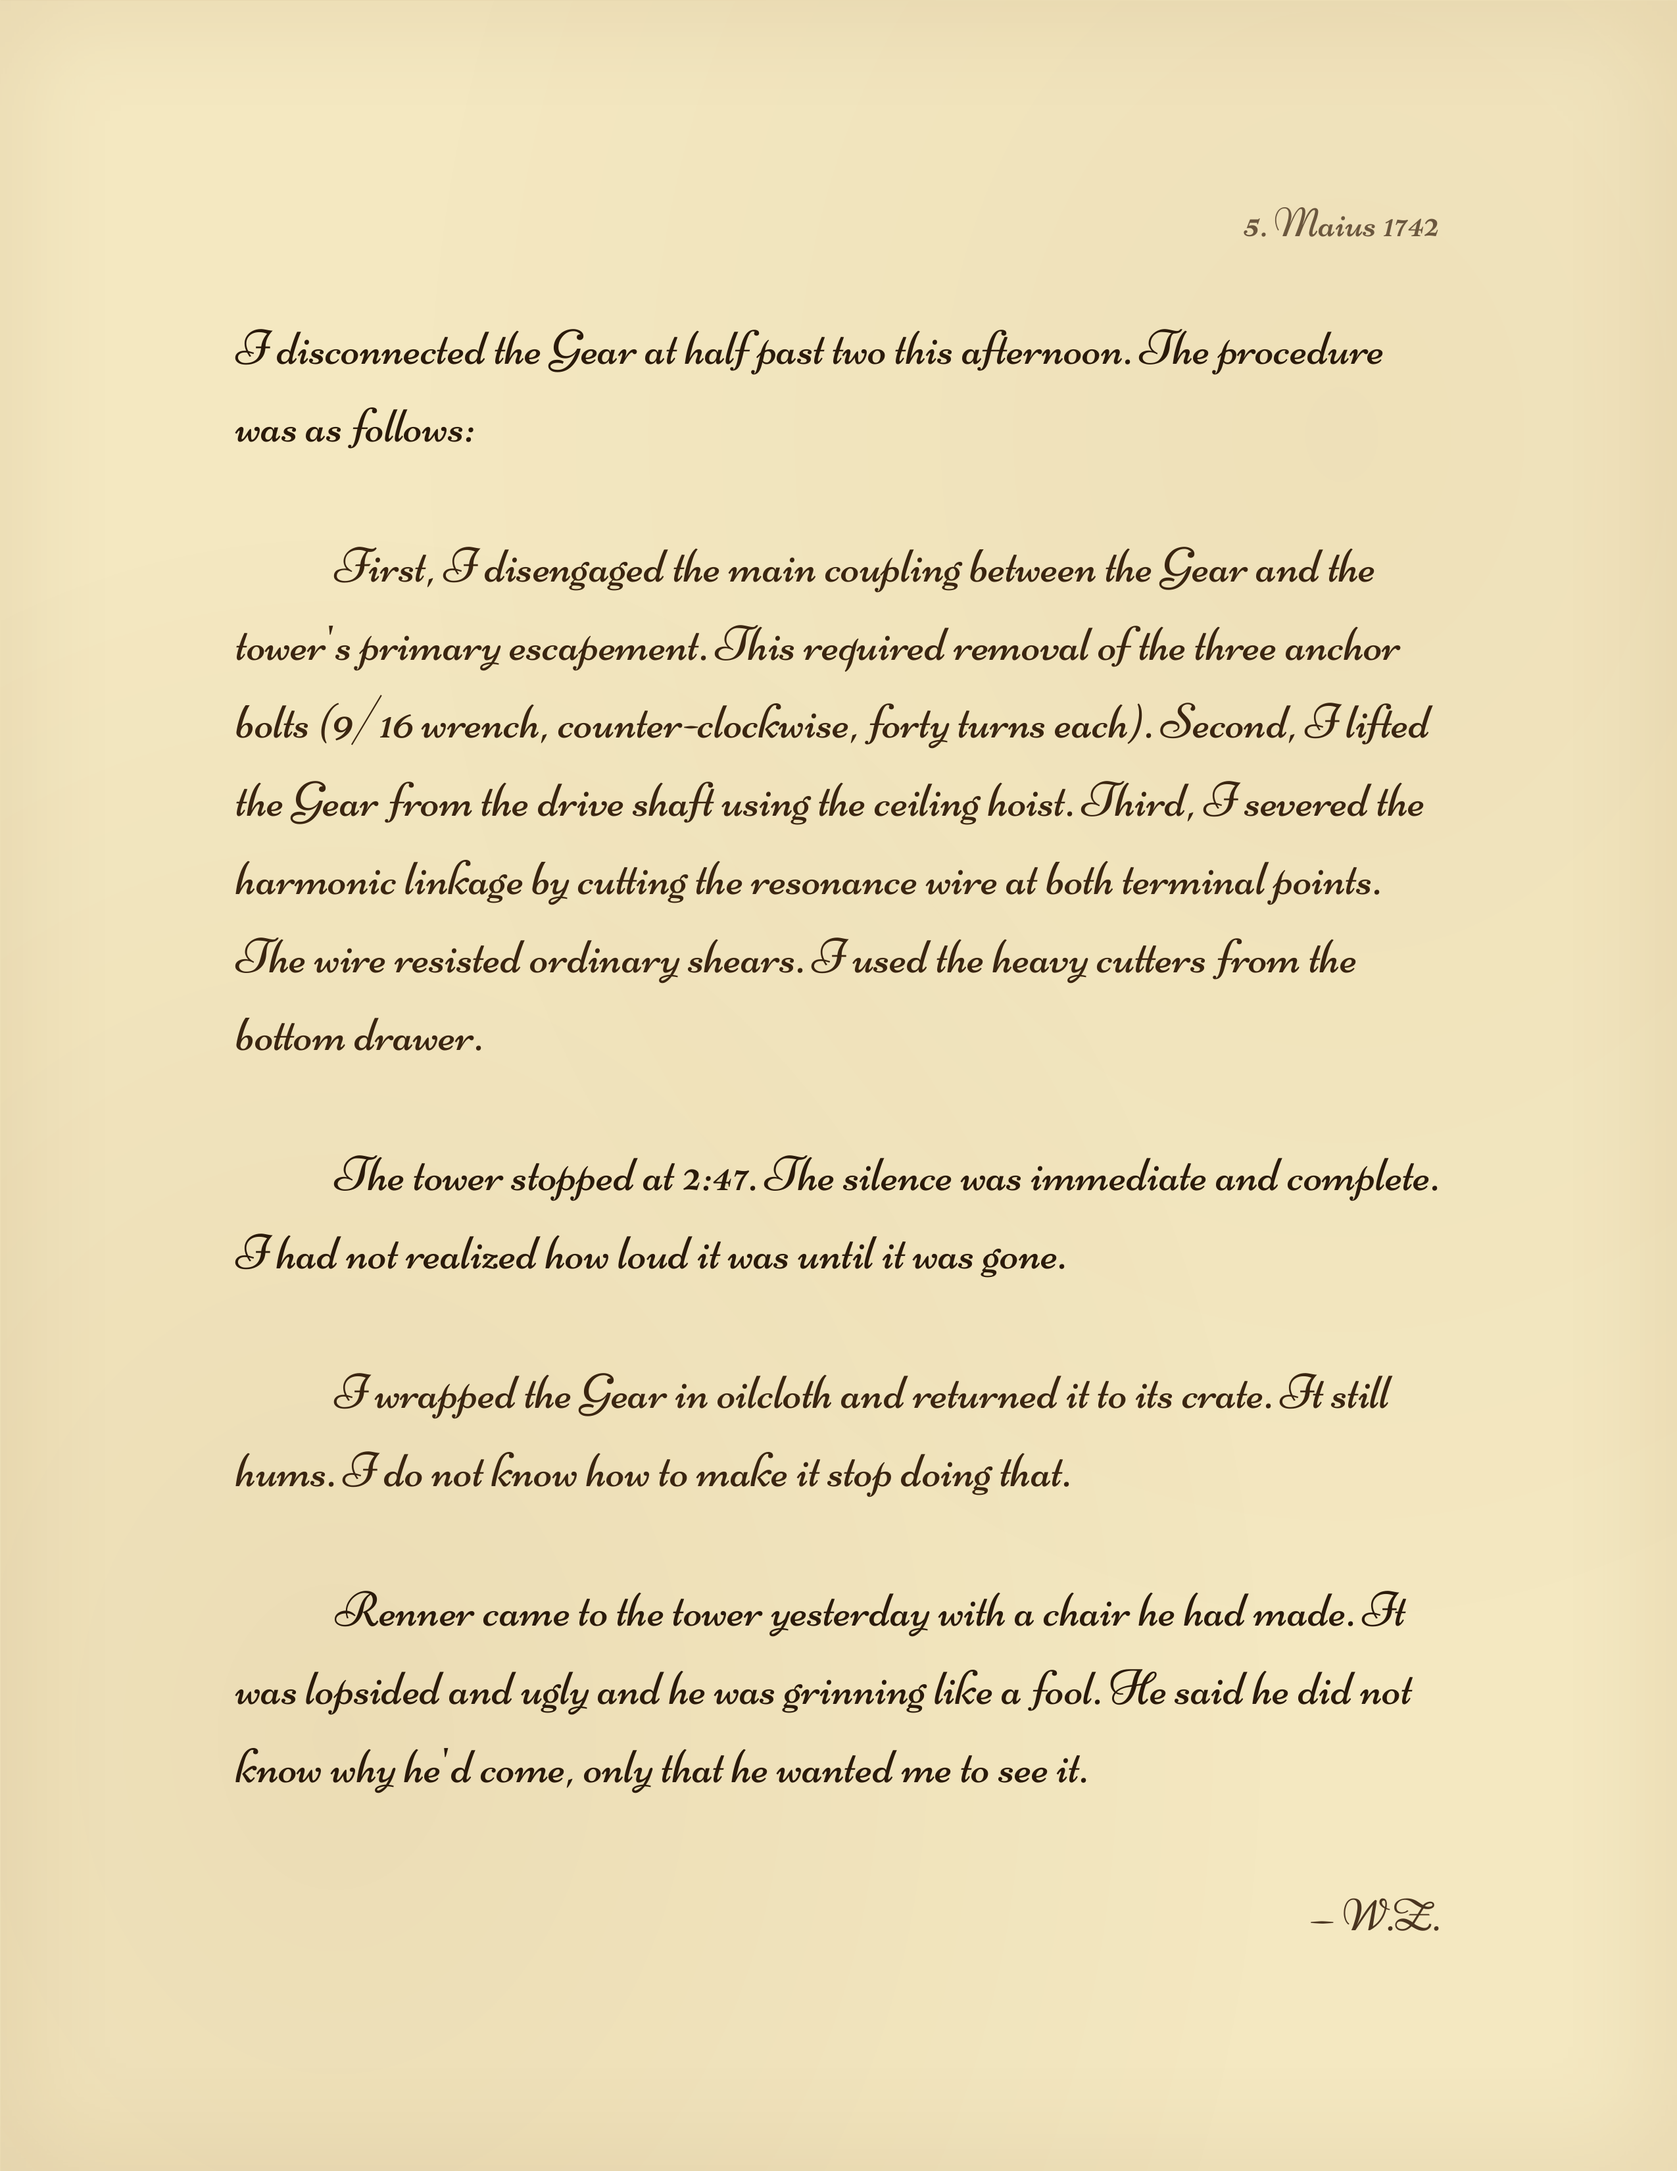
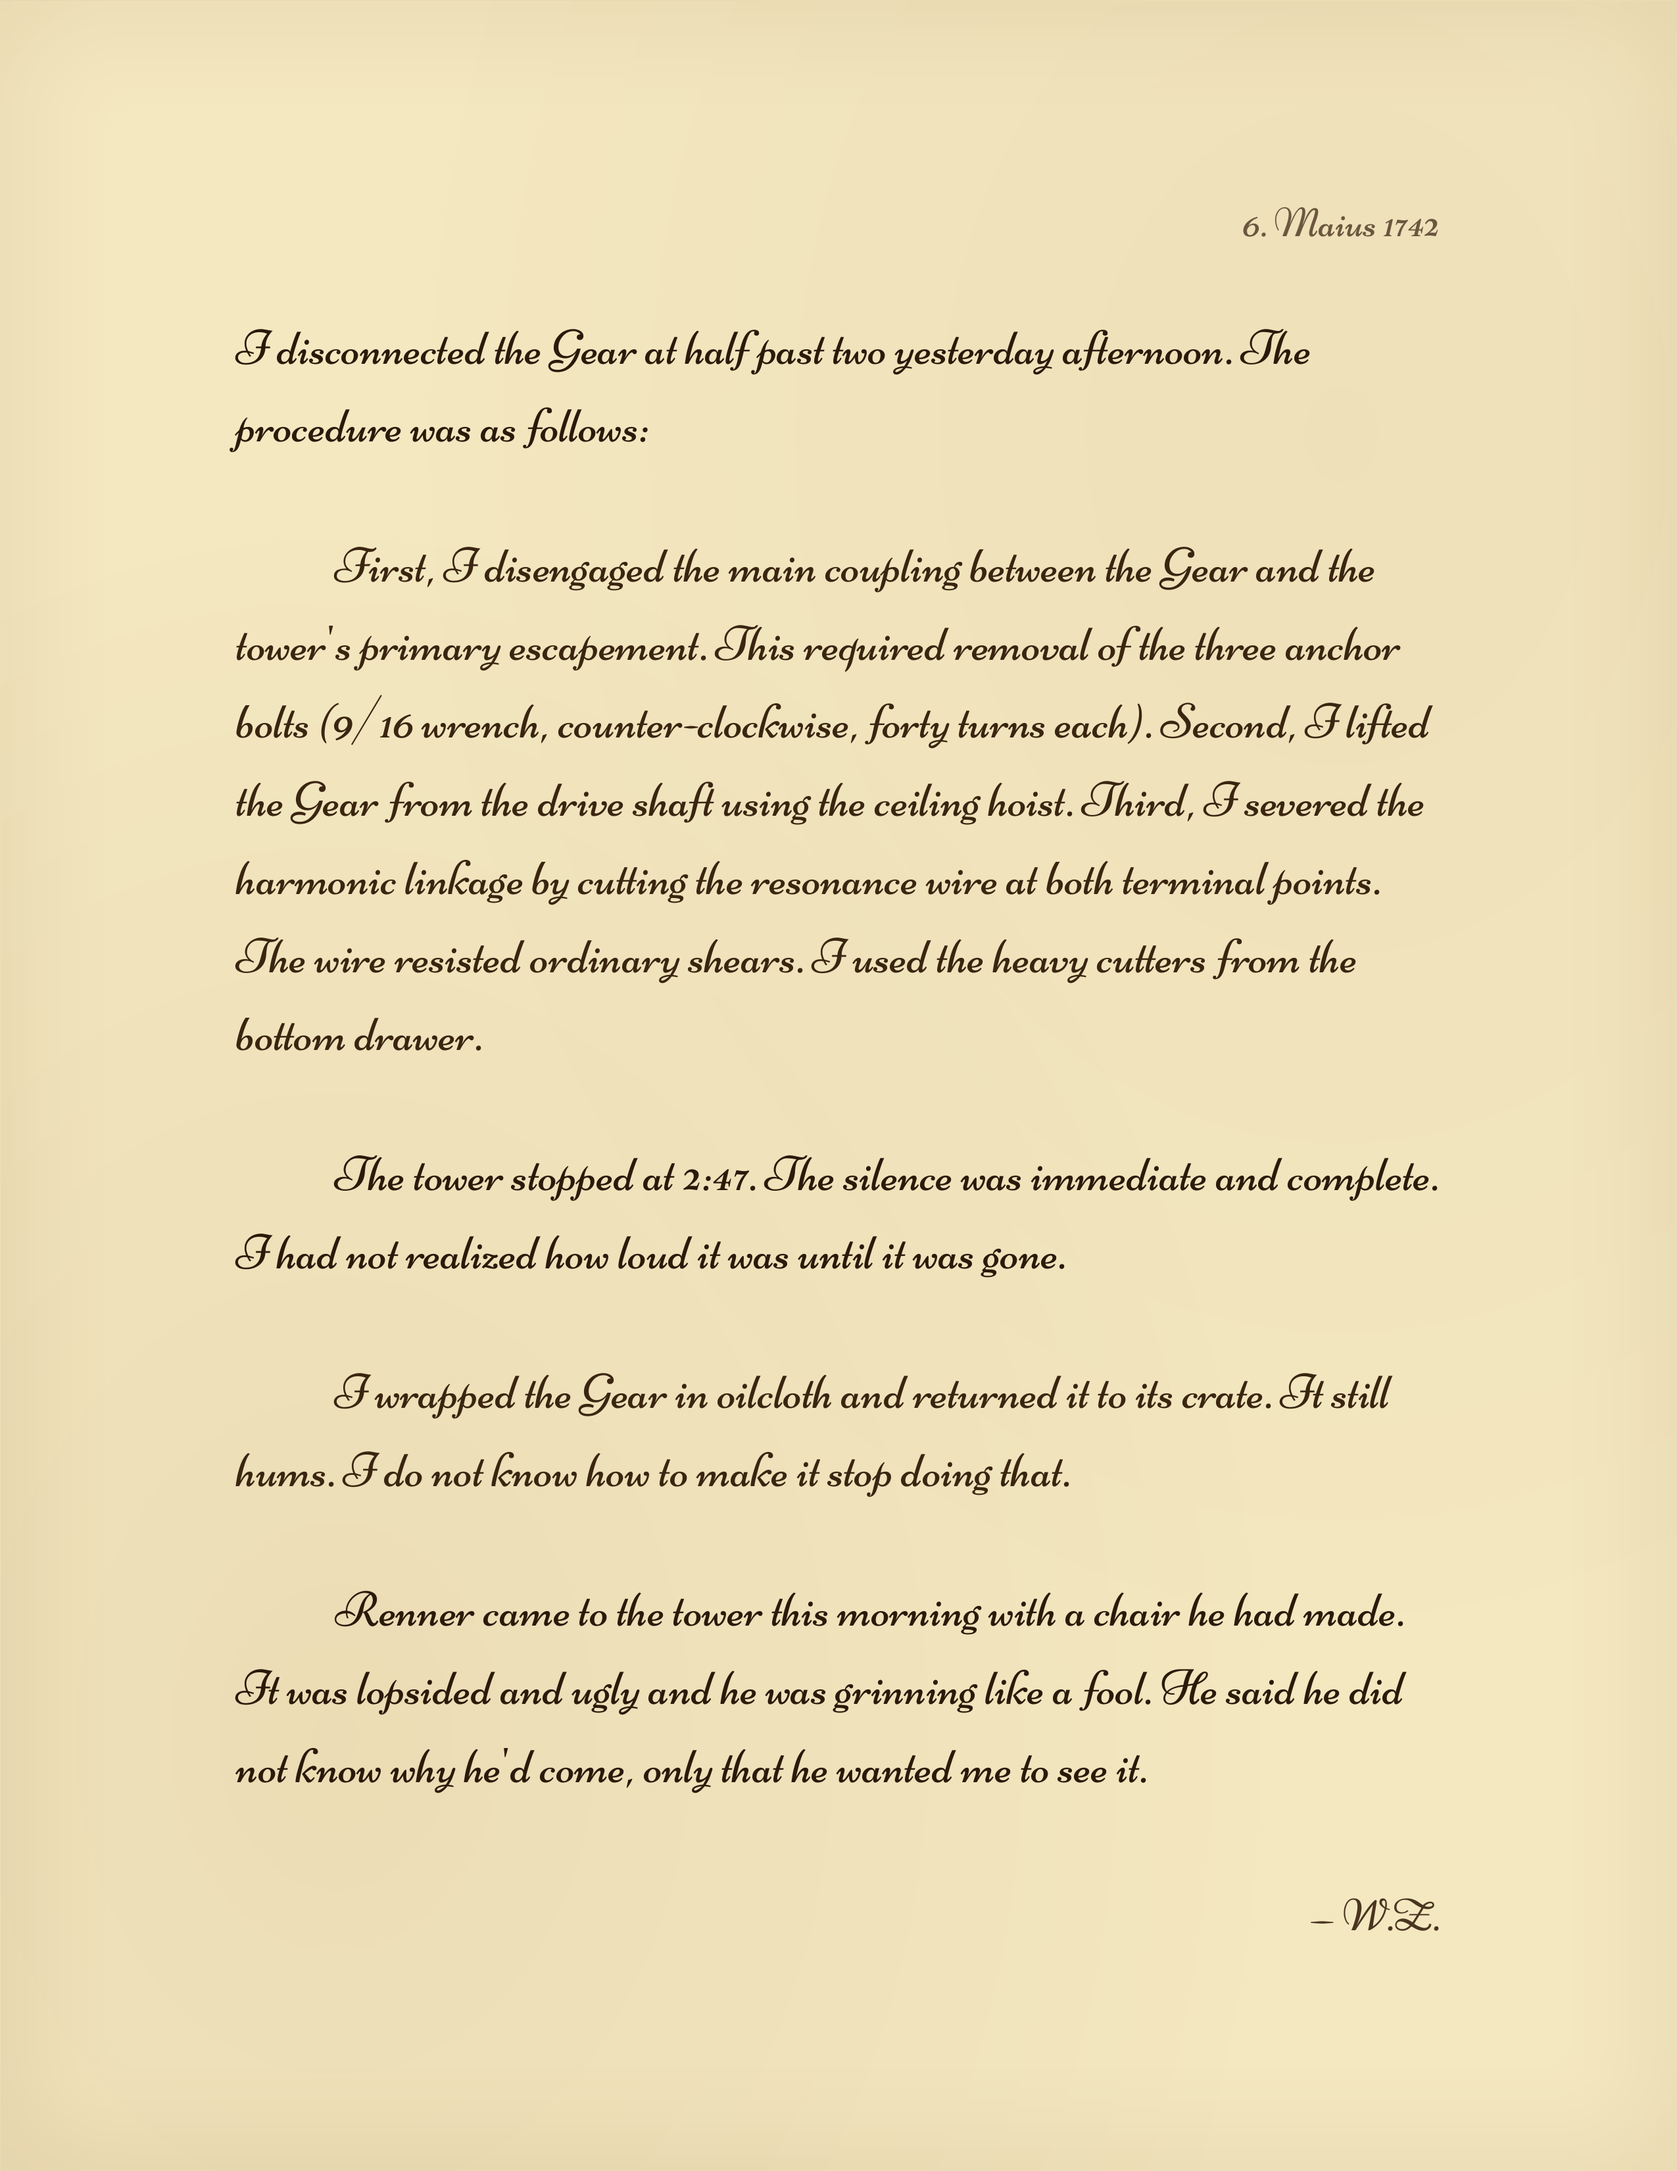
Journal written the day after: Renner's lopsided chair follows the disconnection
Entry re-dated 6. Maius; disconnection 'yesterday afternoon' (the 5th);
Renner visits 'this morning' -- his recovery now postdates the Gear's removal.

diff --git a/props/documents/journal-disconnection.html b/props/documents/journal-disconnection.html
@@ -44,9 +44,9 @@
 <body>
 
 <div class="page">
-  <div class="date">5. Maius 1742</div>
+  <div class="date">6. Maius 1742</div>
   <div class="body">
-    <p>I disconnected the Gear at half past two this afternoon. The procedure was as follows:</p>
+    <p>I disconnected the Gear at half past two yesterday afternoon. The procedure was as follows:</p>
 
     <p>First, I disengaged the main coupling between the Gear and the tower's primary escapement. This required removal of the three anchor bolts (9/16 wrench, counter-clockwise, forty turns each). Second, I lifted the Gear from the drive shaft using the ceiling hoist. Third, I severed the harmonic linkage by cutting the resonance wire at both terminal points. The wire resisted ordinary shears. I used the heavy cutters from the bottom drawer.</p>
 
@@ -54,7 +54,7 @@
 
     <p>I wrapped the Gear in oilcloth and returned it to its crate. It still hums. I do not know how to make it stop doing that.</p>
 
-    <p>Renner came to the tower yesterday with a chair he had made. It was lopsided and ugly and he was grinning like a fool. He said he did not know why he'd come, only that he wanted me to see it.</p>
+    <p>Renner came to the tower this morning with a chair he had made. It was lopsided and ugly and he was grinning like a fool. He said he did not know why he'd come, only that he wanted me to see it.</p>
   </div>
   <div class="signature">&mdash; W.Z.</div>
 </div>

diff --git a/adventure-summary.md b/adventure-summary.md
@@ -12,7 +12,7 @@
 
 - The Kuckucksuhrturm, a clocktower in the Tiefenwald near the town of Freudenfeld, has mysteriously started ticking again
 - The Uhrmacher (clockmaker) is long since dead
-- **Timeline (canon):** Wilhelm's era is 1742 — the Gear arrives, the town improves (Kohler's letter, 14. Martius), the wrongness shows (journal, 19. Aprilis), and he disconnects the Gear (journal, 5. Maius, at half past two in the afternoon — half an hour before his own activation would have struck) all within that year. **Present day is 1804** — the tower has stood dead for some sixty years. Fits Heinrich: he saw the Tickwichtel as a boy of seven and is an old man of 69 now
+- **Timeline (canon):** Wilhelm's era is 1742 — the Gear arrives, the town improves (Kohler's letter, 14. Martius), the wrongness shows (journal, 19. Aprilis), and he disconnects the Gear (journal entry of 6. Maius: disconnected on the 5th at half past two in the afternoon — half an hour before his own activation would have struck) all within that year. **Present day is 1804** — the tower has stood dead for some sixty years. Fits Heinrich: he saw the Tickwichtel as a boy of seven and is an old man of 69 now
 - He had signed a contract with modrons from the Mechanus plane to open a planar anchor through his clock tower
 - In exchange, a gear from Mechanus was connected to the tower to allow it to keep perfect time
 - The Uhrmacher eventually discovered the consequences of the planar connection: it would seep uniformity and conformance into Freudenfeld
